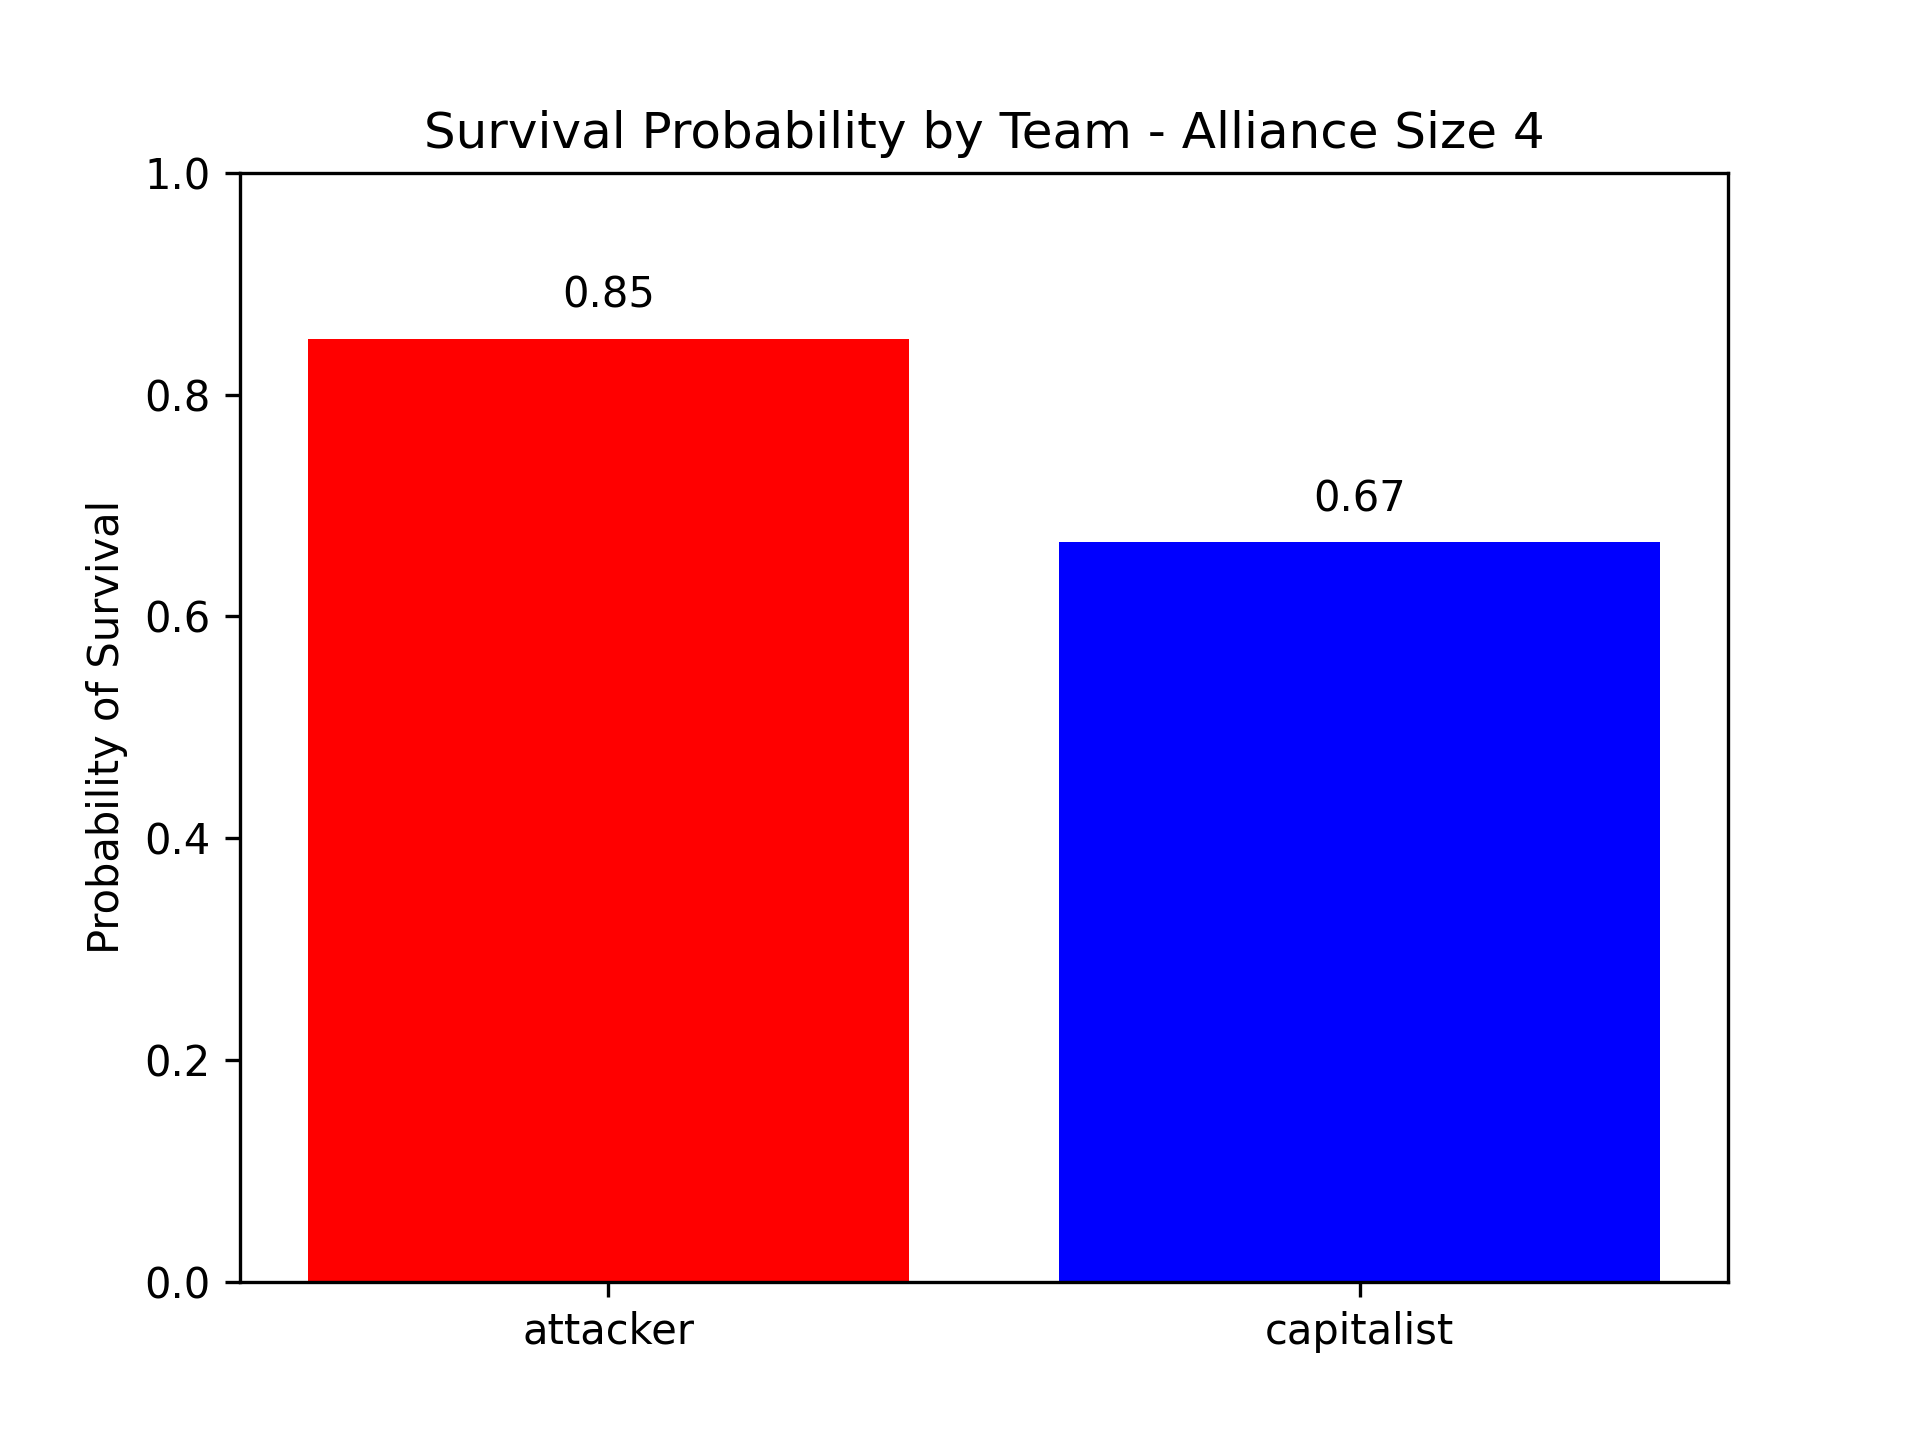
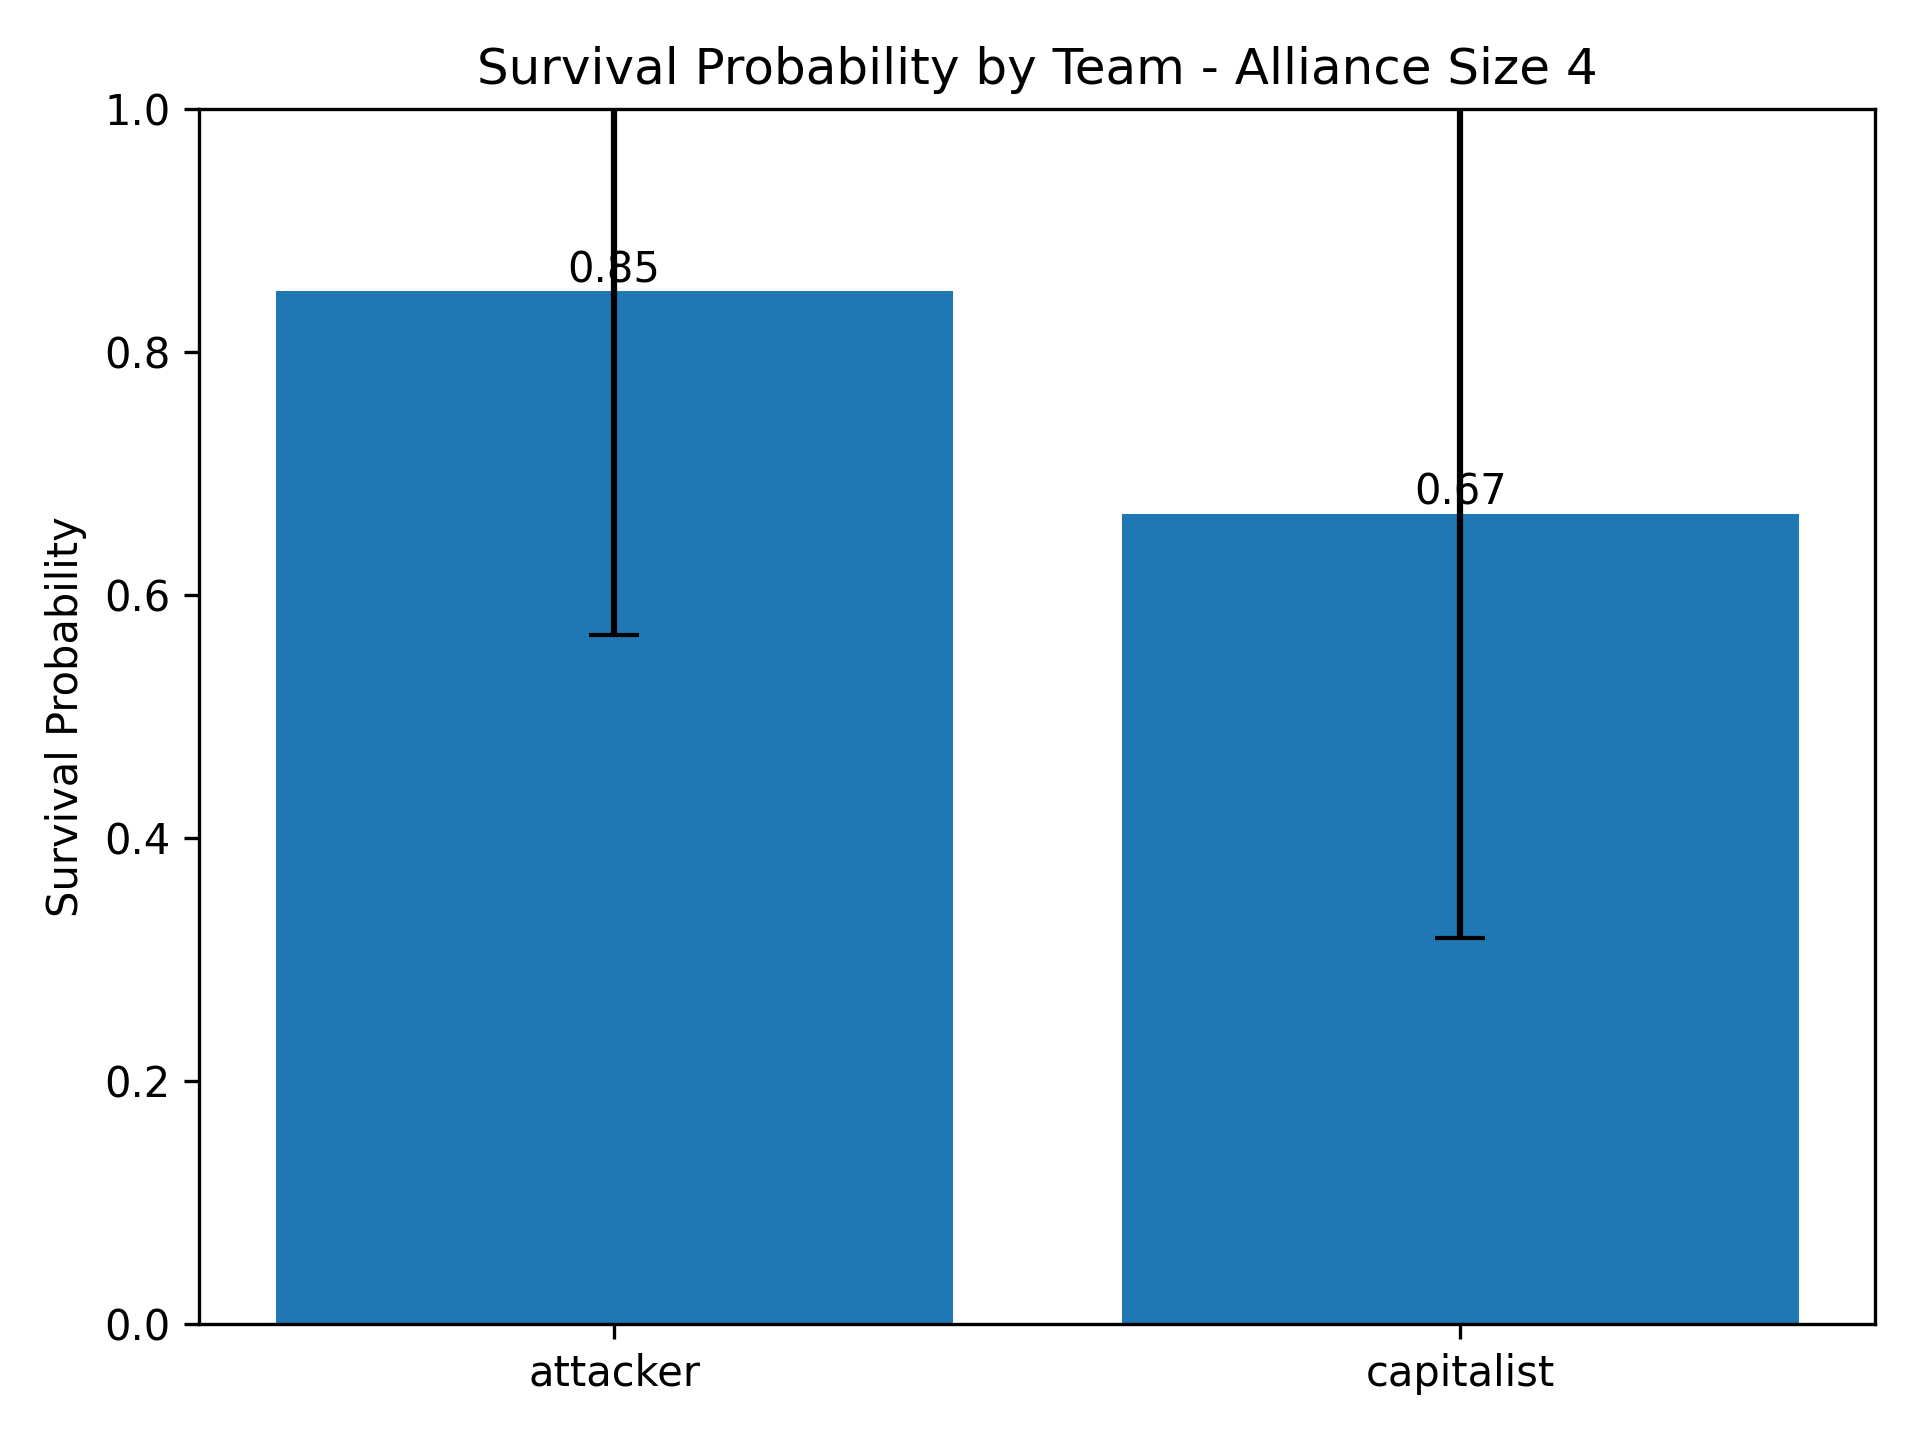
Updated the data analysis code to report standard deviation and removed the documents folder.

diff --git a/data_analysis/analyze_results.py b/data_analysis/analyze_results.py
@@ -77,37 +77,140 @@ def individual_score_plot_for(df, alliance_size):
     plt.savefig("plots/individual_score_plot_alliance_{}.png".format(alliance_size), dpi=300)
 
 def avg_score_plot_for(df, alliance_size):
-    avg_scores = df.groupby("team")["score"].mean()
+    df = df.copy()
+    df["effective_score"] = df["score"] * df["survived"].astype(int)
+
+    score_per_run = (
+        df
+        .groupby(["date", "world_id", "team"])["effective_score"]
+        .mean()
+        .reset_index(name="avg_score_per_agent")
+    )
+
+    stats = (
+        score_per_run
+        .groupby("team")["avg_score_per_agent"]
+        .agg(["mean", "std"])
+    )
 
     fig, ax = plt.subplots()
-    bars = ax.bar(avg_scores.index, avg_scores.values, color=['red', 'blue'])
+    bars = ax.bar(
+        stats.index,
+        stats["mean"],
+        yerr=stats["std"],
+        capsize=6
+    )
 
-    for bar, avg in zip(bars, avg_scores.values):
-        height = bar.get_height()
-        ax.text(bar.get_x() + bar.get_width()/2, height + 0.5, f'{avg:.2f}', ha='center', va='bottom')
+    ax.set_ylabel("Average Score per Agent (dead = 0)")
+    ax.set_title(f"Normalized Team Score - Alliance Size {alliance_size}")
 
-    ax.set_ylabel("Average Score")
-    ax.set_title("Average Score by Team - Alliance Size {}".format(alliance_size))
-    plt.savefig("plots/avg_score_plot_alliance_{}.png".format(alliance_size), dpi=300)
+    for bar, mean in zip(bars, stats["mean"]):
+        ax.text(
+            bar.get_x() + bar.get_width() / 2,
+            bar.get_height(),
+            f"{mean:.1f}",
+            ha="center",
+            va="bottom"
+        )
+
+    plt.tight_layout()
+    plt.savefig(
+        f"plots/avg_score_plot_alliance_{alliance_size}.png",
+        dpi=300
+    )
 
 def survival_rate_plot_for(df, alliance_size):
-    survival_prob = df.groupby("team")["survived"].mean()
+    survival_per_run = (
+        df
+        .groupby(["date", "world_id", "team"])["survived"]
+        .mean()
+        .reset_index(name="survival_rate")
+    )
+
+    stats = (
+        survival_per_run
+        .groupby("team")["survival_rate"]
+        .agg(["mean", "std"])
+    )
 
     fig, ax = plt.subplots()
-    bars = ax.bar(survival_prob.index, survival_prob.values, color=['red', 'blue'])
+    bars = ax.bar(
+        stats.index,
+        stats["mean"],
+        yerr=stats["std"],
+        capsize=6
+    )
 
-    for bar, prob in zip(bars, survival_prob.values):
-        height = bar.get_height()
-        ax.text(bar.get_x() + bar.get_width()/2, height + 0.02, f'{prob:.2f}', ha='center', va='bottom')
+    ax.set_ylabel("Survival Probability")
+    ax.set_title(f"Survival Probability by Team - Alliance Size {alliance_size}")
+    ax.set_ylim(0, 1)
 
-    ax.set_ylabel("Probability of Survival")
-    ax.set_title("Survival Probability by Team - Alliance Size {}".format(alliance_size))
-    ax.set_ylim(0, 1) 
+    for bar, mean in zip(bars, stats["mean"]):
+        ax.text(
+            bar.get_x() + bar.get_width() / 2,
+            bar.get_height(),
+            f"{mean:.2f}",
+            ha="center",
+            va="bottom"
+        )
 
-    plt.savefig("plots/survival_rate_plot_alliance_{}.png".format(alliance_size), dpi=300)
+    plt.tight_layout()
+    plt.savefig(
+        f"plots/survival_rate_plot_alliance_{alliance_size}.png",
+        dpi=300
+    )
+
+def print_stats_for(df, alliance_size):
+    print(f"\n=== Alliance Size {alliance_size} (Run-level, normalized) ===")
+
+    df = df.copy()
+    df["effective_score"] = df["score"] * df["survived"].astype(int)
+
+    # ---- SCORE: per-run average score per agent (dead = 0) ----
+    score_per_run = (
+        df
+        .groupby(["date", "world_id", "team"])["effective_score"]
+        .mean()
+        .reset_index(name="avg_score_per_agent")
+    )
+
+    score_stats = (
+        score_per_run
+        .groupby("team")["avg_score_per_agent"]
+        .agg(
+            score_mean="mean",
+            score_std="std"
+        )
+    )
+
+    # ---- SURVIVAL: per-run survival rate ----
+    survival_per_run = (
+        df
+        .groupby(["date", "world_id", "team"])["survived"]
+        .mean()
+        .reset_index(name="survival_rate")
+    )
+
+    survival_stats = (
+        survival_per_run
+        .groupby("team")["survival_rate"]
+        .agg(
+            survival_mean="mean",
+            survival_std="std"
+        )
+    )
+
+    stats = score_stats.join(survival_stats)
+
+    print(stats.round(3))
+    return stats
+
 
 def do_plots_for_alliance_size(alliance_size):
     df = parse_yaml("data/game_data_alliance_size_{}.yml".format(alliance_size))
+    
+    print_stats_for(df, alliance_size)
+
     individual_score_plot_for(df, alliance_size)
     avg_score_plot_for(df, alliance_size)
     survival_rate_plot_for(df, alliance_size)
